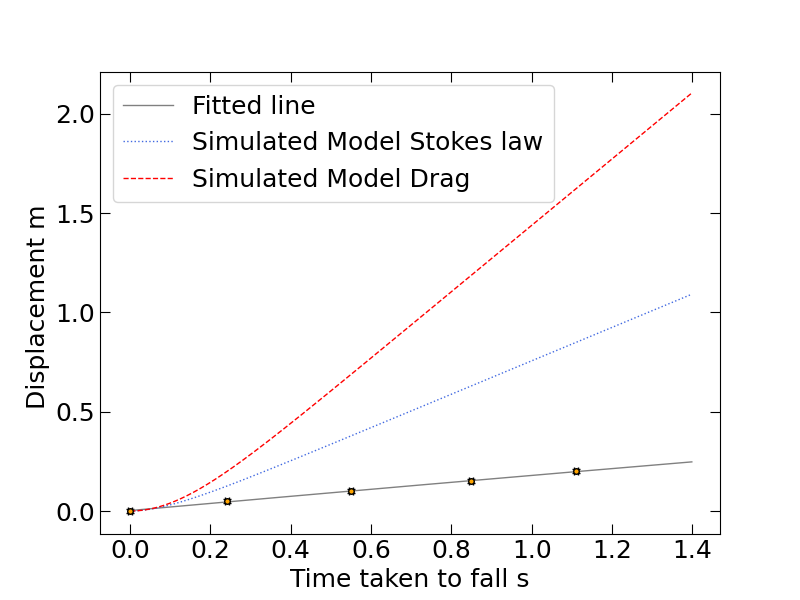
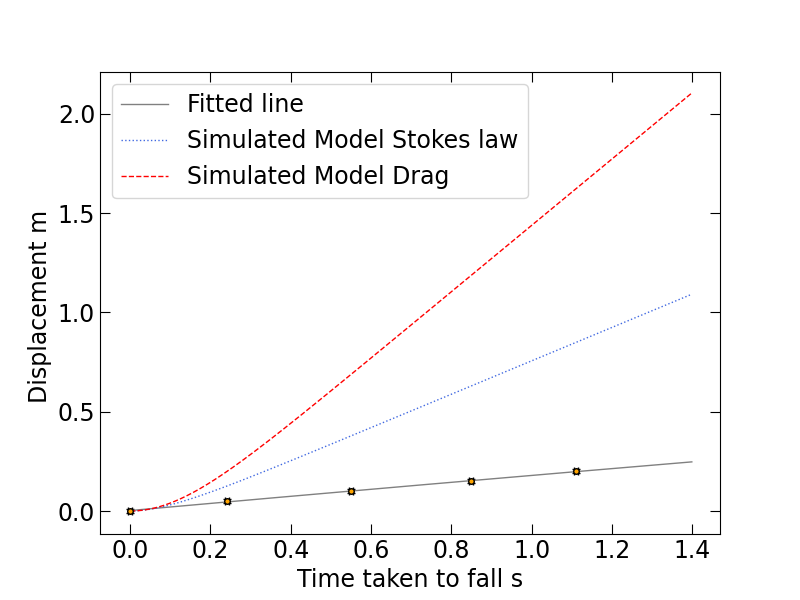
Changed minor details,nothing too major
a couple of graphs have edited properties

diff --git a/fallingbodysgraphDataset2.py b/fallingbodysgraphDataset2.py
@@ -4,7 +4,7 @@ import numpy as np
 import pandas as pd
 import scipy as sp
 from scipy.optimize import curve_fit
-plt.rcParams.update({'font.size': 18})
+plt.rcParams.update({'font.size': 17})
 
 Exp_1 = pd.read_csv('Data/free_fall_through_air.csv')
 Data_1 = pd.read_excel('Data/Data3.xlsx')
@@ -80,7 +80,7 @@ ax.errorbar(
     #             color='black',          # overall colour I think
     #             ecolor='black',         # edge colour for you marker
     #             markerfacecolor='black',
-    linestyle='--',       # no line joining markers, could be a line '-', or a dashed line '--'
+    linestyle='solid',       # no line joining markers, could be a line '-', or a dashed line '--'
     # width of the end bit of the error bars, not too small nor too big please.
     capsize=4,
     label='Simulated Model',
@@ -150,7 +150,6 @@ plt.rcParams.update({'font.size': 15})
 # You may have to play with the aspect ration aobe and this to get a nice
 # looking figure in your report.
 plt.legend(loc="upper left")
-fig.savefig('resultsfalling.png')
 ax.set_ylim(-0.1, 1)
 
 results = Exp_1['suvat']
@@ -159,4 +158,5 @@ std = np.std(results)
 print("Value for g of using suvat", avg)
 print("with a error of", std)
 
+fig.savefig('resultsfalling_dataset2.png')
 plt.show()  # Display the graph below.

diff --git a/fallingbodiesModel.py b/fallingbodiesModel.py
@@ -3,6 +3,7 @@
 import numpy as np
 import matplotlib.pyplot as plt
 import matplotlib.animation as animation
+plt.rcParams.update({'font.size': 14})
 
 # Set up constants
 GRAVITY_ACCELERATION = 9.81  # Acceleration due to gravity (m/s^2)
@@ -73,8 +74,9 @@ for i in range(1, len(time_array)):
 # Set up figure and axis
 figure, axis = plt.subplots(figsize=(4, 4))
 axis.set_xlim(-3, 3)
-axis.set_ylim(-30, 0)
-axis.set_xlabel('Horizontal position (m)')
+axis.set_ylim(-5, 0)
+axis.set(xlabel=None)
+axis.set_xticks([])
 axis.set_ylabel('Vertical position (m)')
 
 # Initialize points
@@ -112,5 +114,5 @@ def update(frame):
 
 
 animation = animation.FuncAnimation(figure, update, frames=len(
-    time_array), interval=TIME_STEP*1000, blit=True)
+    time_array), interval=TIME_STEP*10000, blit=True)
 plt.show()

diff --git a/Drag_glycerolattempt2smallball.py b/Drag_glycerolattempt2smallball.py
@@ -3,7 +3,7 @@ import numpy as np
 import pandas as pd
 import scipy as sp
 from scipy.optimize import curve_fit
-plt.rcParams.update({'font.size': 18})
+plt.rcParams.update({'font.size': 17})
 
 Exp_1 = pd.read_csv('Data/smallball.csv')
 Exp_1['x_m'] = Exp_1['x_m']/100  # convert to cm

diff --git a/Drag_glycerolattempt2bigball.py b/Drag_glycerolattempt2bigball.py
@@ -3,7 +3,7 @@ import numpy as np
 import pandas as pd
 import scipy as sp
 from scipy.optimize import curve_fit
-plt.rcParams.update({'font.size': 18})
+plt.rcParams.update({'font.size': 17})
 
 
 Exp_1 = pd.read_csv('Data/Glycerol2.csv')
